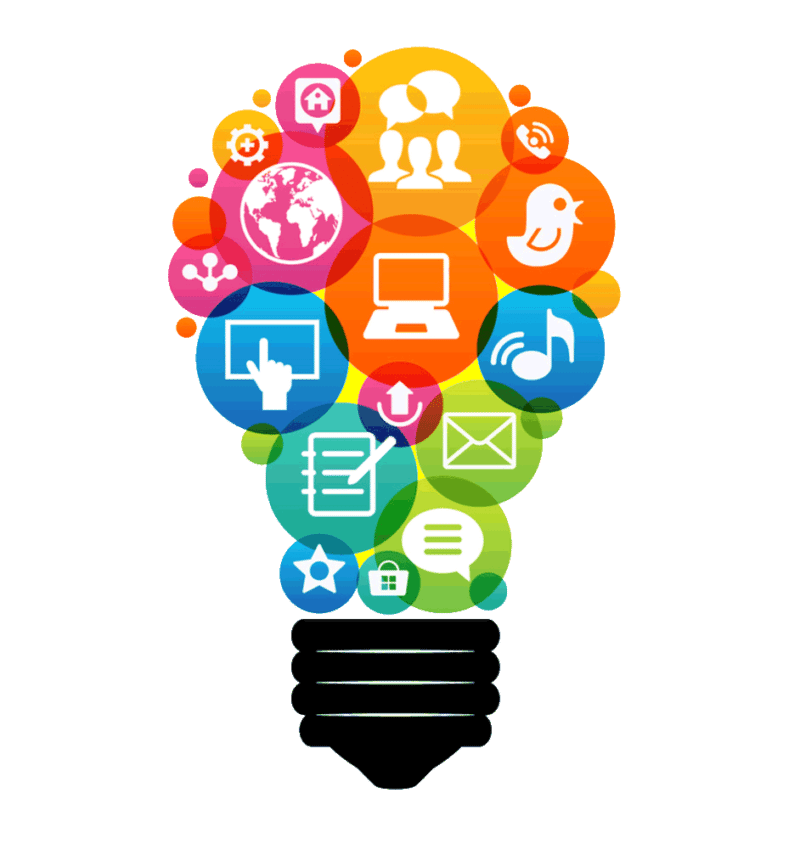
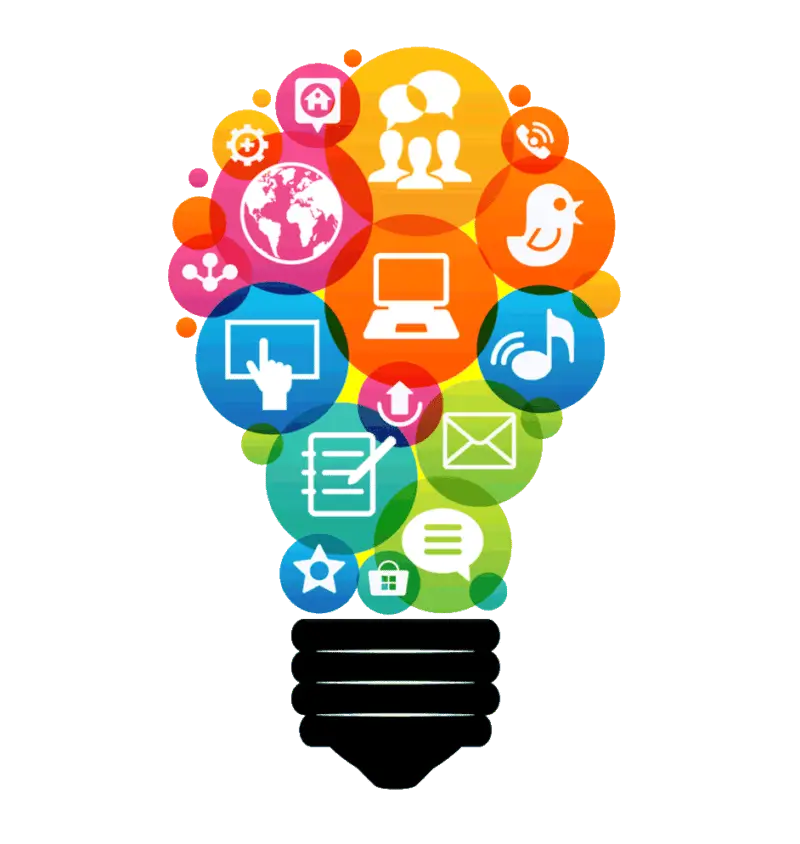
Customizing images size

diff --git a/index.html b/index.html
@@ -211,18 +211,18 @@
           <li data-img="3">App</li>
         </ul>
         <div class="imgs-box" data-aos="zoom-out">
-          <img src="imgs/gallery_1.webp" alt="Design" data-img="1" loading="lazy" />
-          <img src="imgs/gallery_2.webp" alt="Code" data-img="2" loading="lazy" />
-          <img src="imgs/gallery_6.webp" alt="code" data-img="2" loading="lazy" />
-          <img src="imgs/land_9.webp" alt="Design" data-img="1" loading="lazy" />
-          <img src="imgs/land_7.webp" alt="App" data-img="3" loading="lazy" />
-          <img src="imgs/land_10.webp" alt="Design" data-img="1" loading="lazy" />
-          <img src="imgs/gallery_4.webp" alt="App" data-img="3" loading="lazy" />
-          <img src="imgs/land_4.webp" alt="Code" data-img="2" loading="lazy" />
-          <img src="imgs/land_6.webp" alt="App" data-img="3" loading="lazy" />
-          <img src="imgs/gallery_3.webp" alt="code" data-img="2" loading="lazy" />
-          <img src="imgs/land_8.webp" alt="Design" data-img="1" loading="lazy" />
-          <img src="imgs/gallery_5.webp" alt="code" data-img="2" loading="lazy" />
+          <img src="imgs/gallery_1.jpg" alt="Design" data-img="1" loading="lazy" />
+          <img src="imgs/gallery_2.jpg" alt="Code" data-img="2" loading="lazy" />
+          <img src="imgs/gallery_6.jpg" alt="code" data-img="2" loading="lazy" />
+          <img src="imgs/land_2.jpg" alt="Design" data-img="1" loading="lazy" />
+          <img src="imgs/land_3.jpg" alt="App" data-img="3" loading="lazy" />
+          <img src="imgs/land_5.jpg" alt="Design" data-img="1" loading="lazy" />
+          <img src="imgs/gallery_4.jpg" alt="App" data-img="3" loading="lazy" />
+          <img src="imgs/land_4.jpg" alt="Code" data-img="2" loading="lazy" />
+          <img src="imgs/land_6.jpg" alt="App" data-img="3" loading="lazy" />
+          <img src="imgs/gallery_3.jpg" alt="code" data-img="2" loading="lazy" />
+          <img src="imgs/land_7.jpg" alt="Design" data-img="1" loading="lazy" />
+          <img src="imgs/gallery_5.jpg" alt="code" data-img="2" loading="lazy" />
         </div>
 
         <div class="d-flex justify-content-center mt-4">

diff --git a/js/app.js b/js/app.js
@@ -280,16 +280,12 @@ function changeBackground() {
   if (backgroundOption === true) {
     // Make our imgs into array
     let imgsArr = [
-      "land_1.webp",
-      "land_2.webp",
-      "land_3.webp",
-      "land_4.webp",
-      "land_5.webp",
-      "land_6.webp",
-      "land_7.webp",
-      "land_8.webp",
-      "land_9.webp",
-      "land_10.webp",
+      "land_1.jpg",
+      "land_2.jpg",
+      "land_3.jpg",
+      "land_4.jpg",
+      "land_5.jpg",
+      "land_6.jpg",
     ];
 
     // Start Change

diff --git a/css/style.css b/css/style.css
@@ -431,7 +431,7 @@ a {
 /* Start Landing Page */
 .landing-page {
   min-height: calc(100vh);
-  background-image: url(../imgs/land_5.webp);
+  background-image: url(../imgs/land_5.jpg);
   background-size: cover;
   position: relative;
 }
